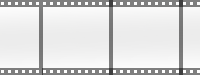
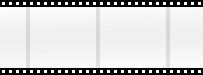
Fixed CSS, added images, GUI changes
Added VLC icon.
Fixed video background and altered the image to be more visible.
Changed the mediaObjectIcon to have a grey background with a media icon
to the left side.

Removed the gridPanes showgrid=true in several classes.fxml files

Changed region(s): [[0.0, 0.0, 1.0, 1.0]]

diff --git a/ScreenTeamFX/src/gui/application.css b/ScreenTeamFX/src/gui/application.css
@@ -1,5 +1,6 @@
 .dragicon {
-	-fx-background-radius: 10; 
+	-fx-background-radius: 10;
+	-fx-background-color: rgba(75,75,75,0.1); 
 }
 
 .icon-sound {
@@ -7,11 +8,18 @@
 	-fx-background-radius: 10; 
 }
 .icon-video {
-	-fx-background-image: url("../../resources/videoTypeBack.png");
+	-fx-background-image: url("../../resources/VLC_Icon.png");
 	-fx-background-repeat: no-repeat;
 	-fx-background-position: center;
+	-fx-background-size: cover; 
+}
+
+.background-video {
+	-fx-background-image: url("../../resources/videoTypeBack.png");
+	/*-fx-background-repeat: no-repeat;
+	-fx-background-position: center;
 	-fx-background-size: cover;
-	-fx-background-radius: 10; 
+	-fx-background-radius: 10; */
 }
 
 .icon-cog {

diff --git a/ScreenTeamFX/src/gui/MediaObjectIcon.java b/ScreenTeamFX/src/gui/MediaObjectIcon.java
@@ -16,6 +16,7 @@ import javafx.scene.input.MouseEvent;
 import javafx.scene.input.TransferMode;
 import javafx.scene.layout.AnchorPane;
 import javafx.scene.layout.GridPane;
+import javafx.scene.layout.Region;
 import modules.*;
 
 /**
@@ -25,6 +26,7 @@ import modules.*;
 public class MediaObjectIcon extends GridPane{
 	@FXML GridPane grid_pane;
 	private @FXML Label nameOfFile;
+	private @FXML Region styleIcon;
 	
 	//Drag&Drop
 	private EventHandler <DragEvent> mContextDragOver;
@@ -166,13 +168,13 @@ public class MediaObjectIcon extends GridPane{
 		
 		mType = type;
 		
-		getStyleClass().clear();
-		getStyleClass().add("dragicon");
+//		getStyleClass().clear();
+//		getStyleClass().add("dragicon");
 
 			if(mType == MediaSourceType.AUDIO){
-				getStyleClass().add("icon-sound");
+				styleIcon.getStyleClass().add("icon-sound");
 			}else{
-				getStyleClass().add("icon-video");
+				styleIcon.getStyleClass().add("icon-video");
 			}
 			
 	}

diff --git a/ScreenTeamFX/src/gui/AdvancedScreen.java b/ScreenTeamFX/src/gui/AdvancedScreen.java
@@ -585,6 +585,7 @@ public class AdvancedScreen implements Screen{
 			public void showModal(MediaObjectController mediaObject){
 //                final Stage modalDialog = new Stage();
                 modalDialog = new Stage();
+                modalDialog.setResizable(false);
                 modalDialog.initModality(Modality.APPLICATION_MODAL);
                 modalDialog.initOwner(MainGUIController.getInstance().primaryStage);
                 ModalController mediaObjectModal = new ModalController(mediaObject);

diff --git a/ScreenTeamFX/src/gui/MediaObjectController.java b/ScreenTeamFX/src/gui/MediaObjectController.java
@@ -212,7 +212,7 @@ public class MediaObjectController extends GridPane{
 		if(type == MediaSourceType.AUDIO){
 			getStyleClass().add("icon-sound");
 		}else{
-			getStyleClass().add("icon-video");
+			getStyleClass().add("background-video");
 		}
 		
 	}
